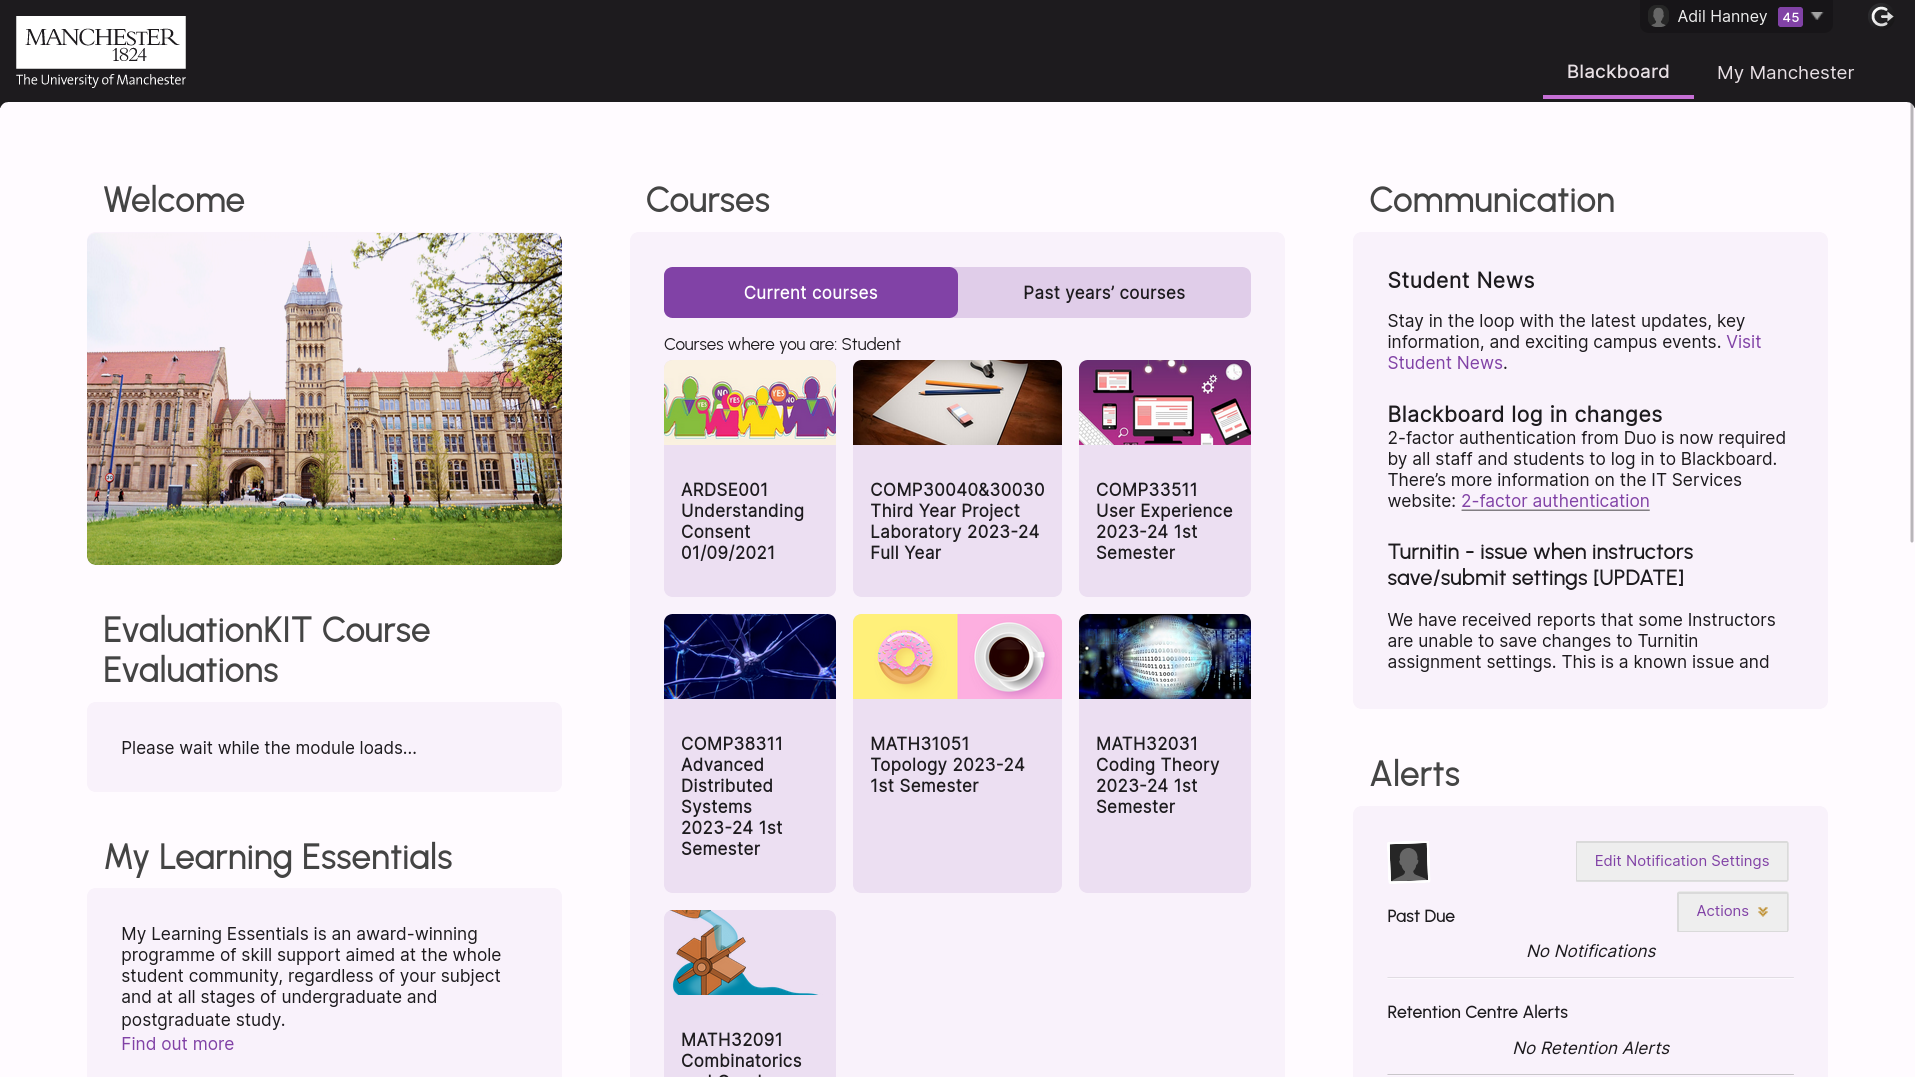
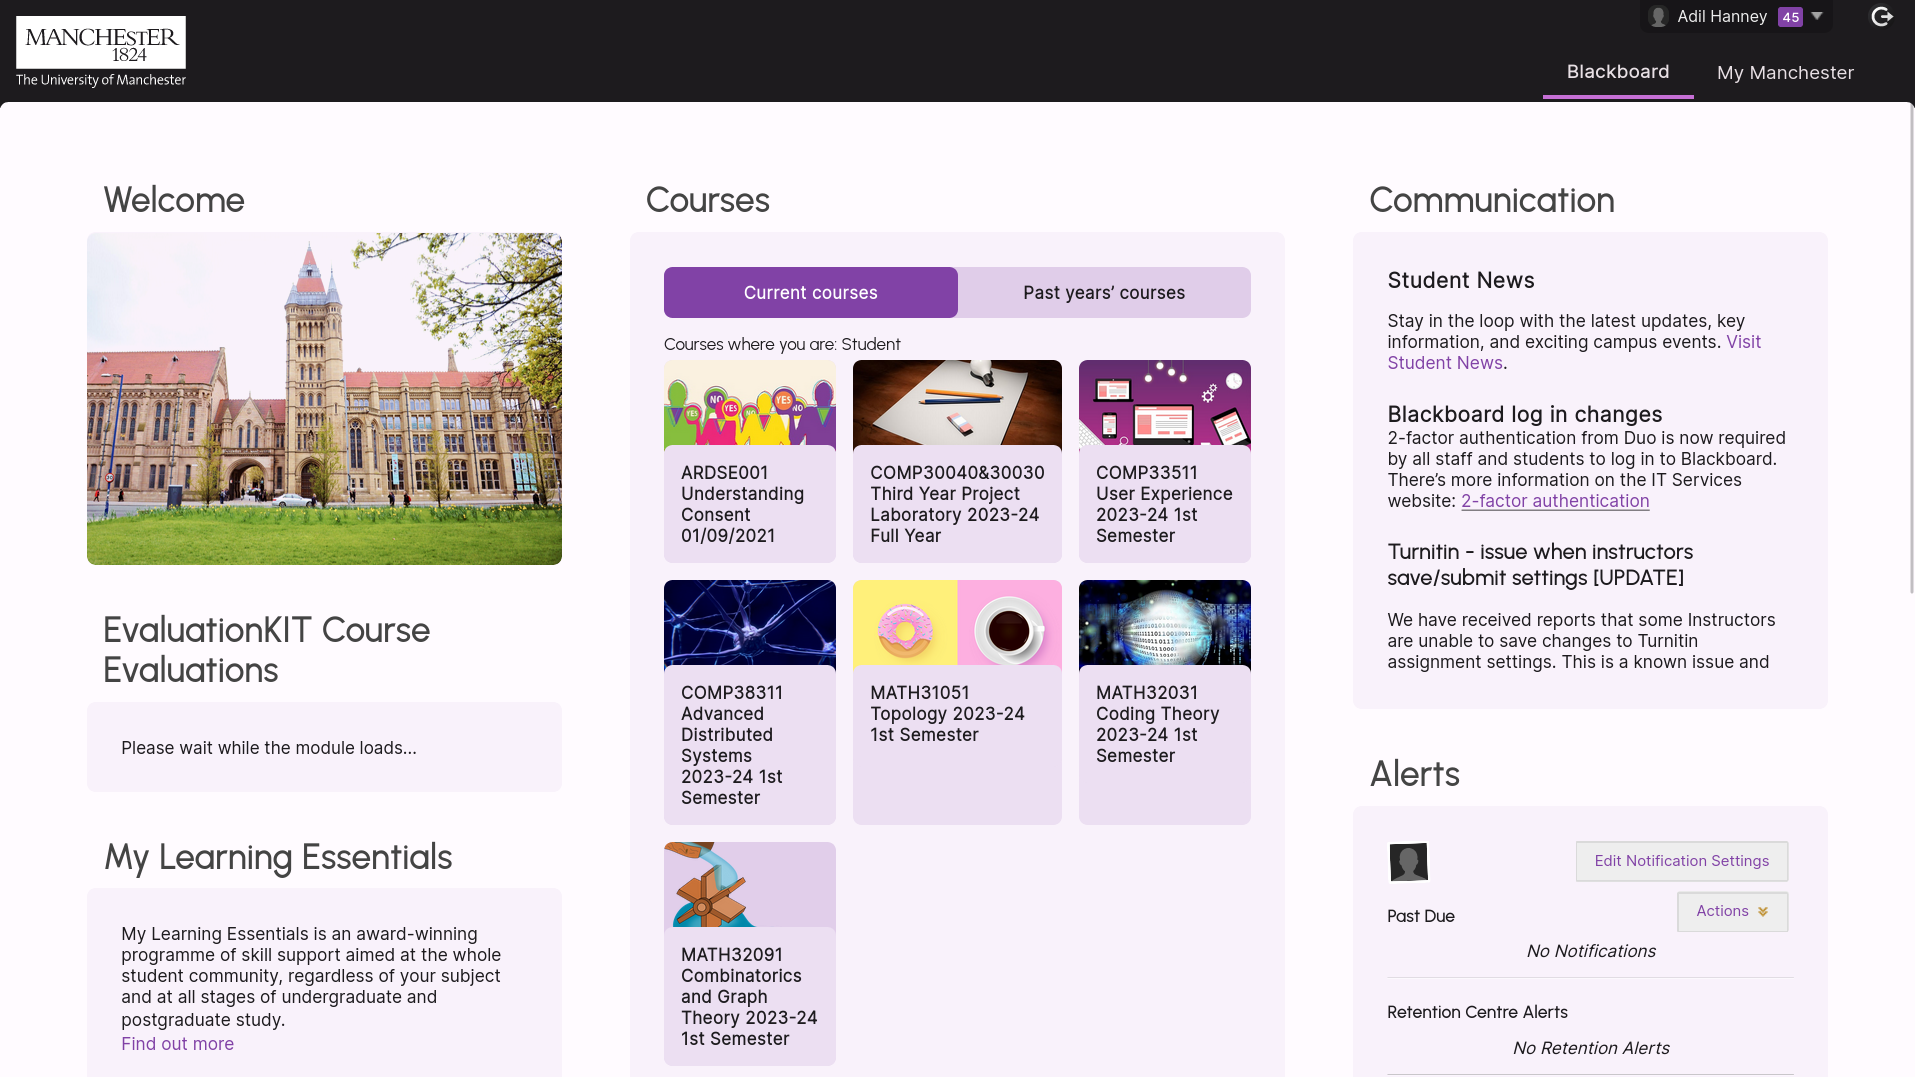
feat: improve module cards

Changed region(s): [[0.3438, 0.3361, 0.6562, 1.0]]

diff --git a/main.css b/main.css
@@ -1,6 +1,6 @@
 /* ==UserStyle==
 @name           UoM Blackboard theme
-@version        20240103.00.00
+@version        20240103.01.00
 @namespace      userstyles.world/user/adil192
 @description    Themes the blackboard UoM website to look more modern and use a consistent colour scheme.
 @author         adil192
@@ -730,7 +730,7 @@
   .listElement li a,
   .courseListing li a {
     display: block;
-    padding: 1rem 1rem 2rem;
+    padding: 1rem;
     min-height: 4em;
     color: #1d1b1e !important;
   }
@@ -772,16 +772,21 @@
   }
   .listElement li[data-module-code] > a,
   .courseListing li[data-module-code] > a {
-    padding-top: 7rem !important;
+    margin-top: 5rem !important;
+    background: inherit;
+    border-radius: 0.5rem;
+    position: relative;
+    z-index: 1;
   }
-  .listElement li[data-module-code] > a::before,
-  .courseListing li[data-module-code] > a::before {
+  .listElement li[data-module-code]::before,
+  .courseListing li[data-module-code]::before {
     content: "";
     position: absolute;
     top: 0;
     left: 0;
     right: 0;
-    height: 5rem;
+    height: 6rem;
+    background-color: rgba(129, 66, 166, 0.1);
     background-image: var(--bg-url);
     background-size: cover;
     background-position: center;

diff --git a/styles/_online.manchester.ac.uk_webapps_portal.scss b/styles/_online.manchester.ac.uk_webapps_portal.scss
@@ -50,7 +50,7 @@ div.container {
 
 		a {
 			display: block;
-			padding: 1rem 1rem 2rem;
+			padding: 1rem;
 			min-height: 4em;
 			color: $on-surface !important;
 		}
@@ -103,15 +103,20 @@ div.container {
 		--bg-url: url("https://raw.githubusercontent.com/adil192/BlackboardTheme/main/assets/queens_arch.jpg");
 
 		> a {
-			padding-top: 7rem !important;
+			margin-top: 5rem !important;
+			background: inherit;
+			border-radius: 0.5rem;
+			position: relative;
+			z-index: 1;
 		}
-		> a::before {
+		&::before {
 			content: "";
 			position: absolute;
 			top: 0;
 			left: 0;
 			right: 0;
-			height: 5rem;
+			height: 6rem;
+			background-color: $shadow; // fallback for bgs with transparency
 			background-image: var(--bg-url);
 			background-size: cover;
 			background-position: center;

diff --git a/styles/_version.scss b/styles/_version.scss
@@ -1,6 +1,6 @@
 /* ==UserStyle==
 @name           UoM Blackboard theme
-@version        20240103.00.00
+@version        20240103.01.00
 @namespace      userstyles.world/user/adil192
 @description    Themes the blackboard UoM website to look more modern and use a consistent colour scheme.
 @author         adil192

diff --git a/CHANGELOG.md b/CHANGELOG.md
@@ -5,6 +5,7 @@ Here I will outline the changes I've made over time...
 ### 20240103
 
 - Headings will use the "Urbanist" font, and the body text will use the "Inter" font
+- Improved the look of the module cards
 
 ### 20240102
 
